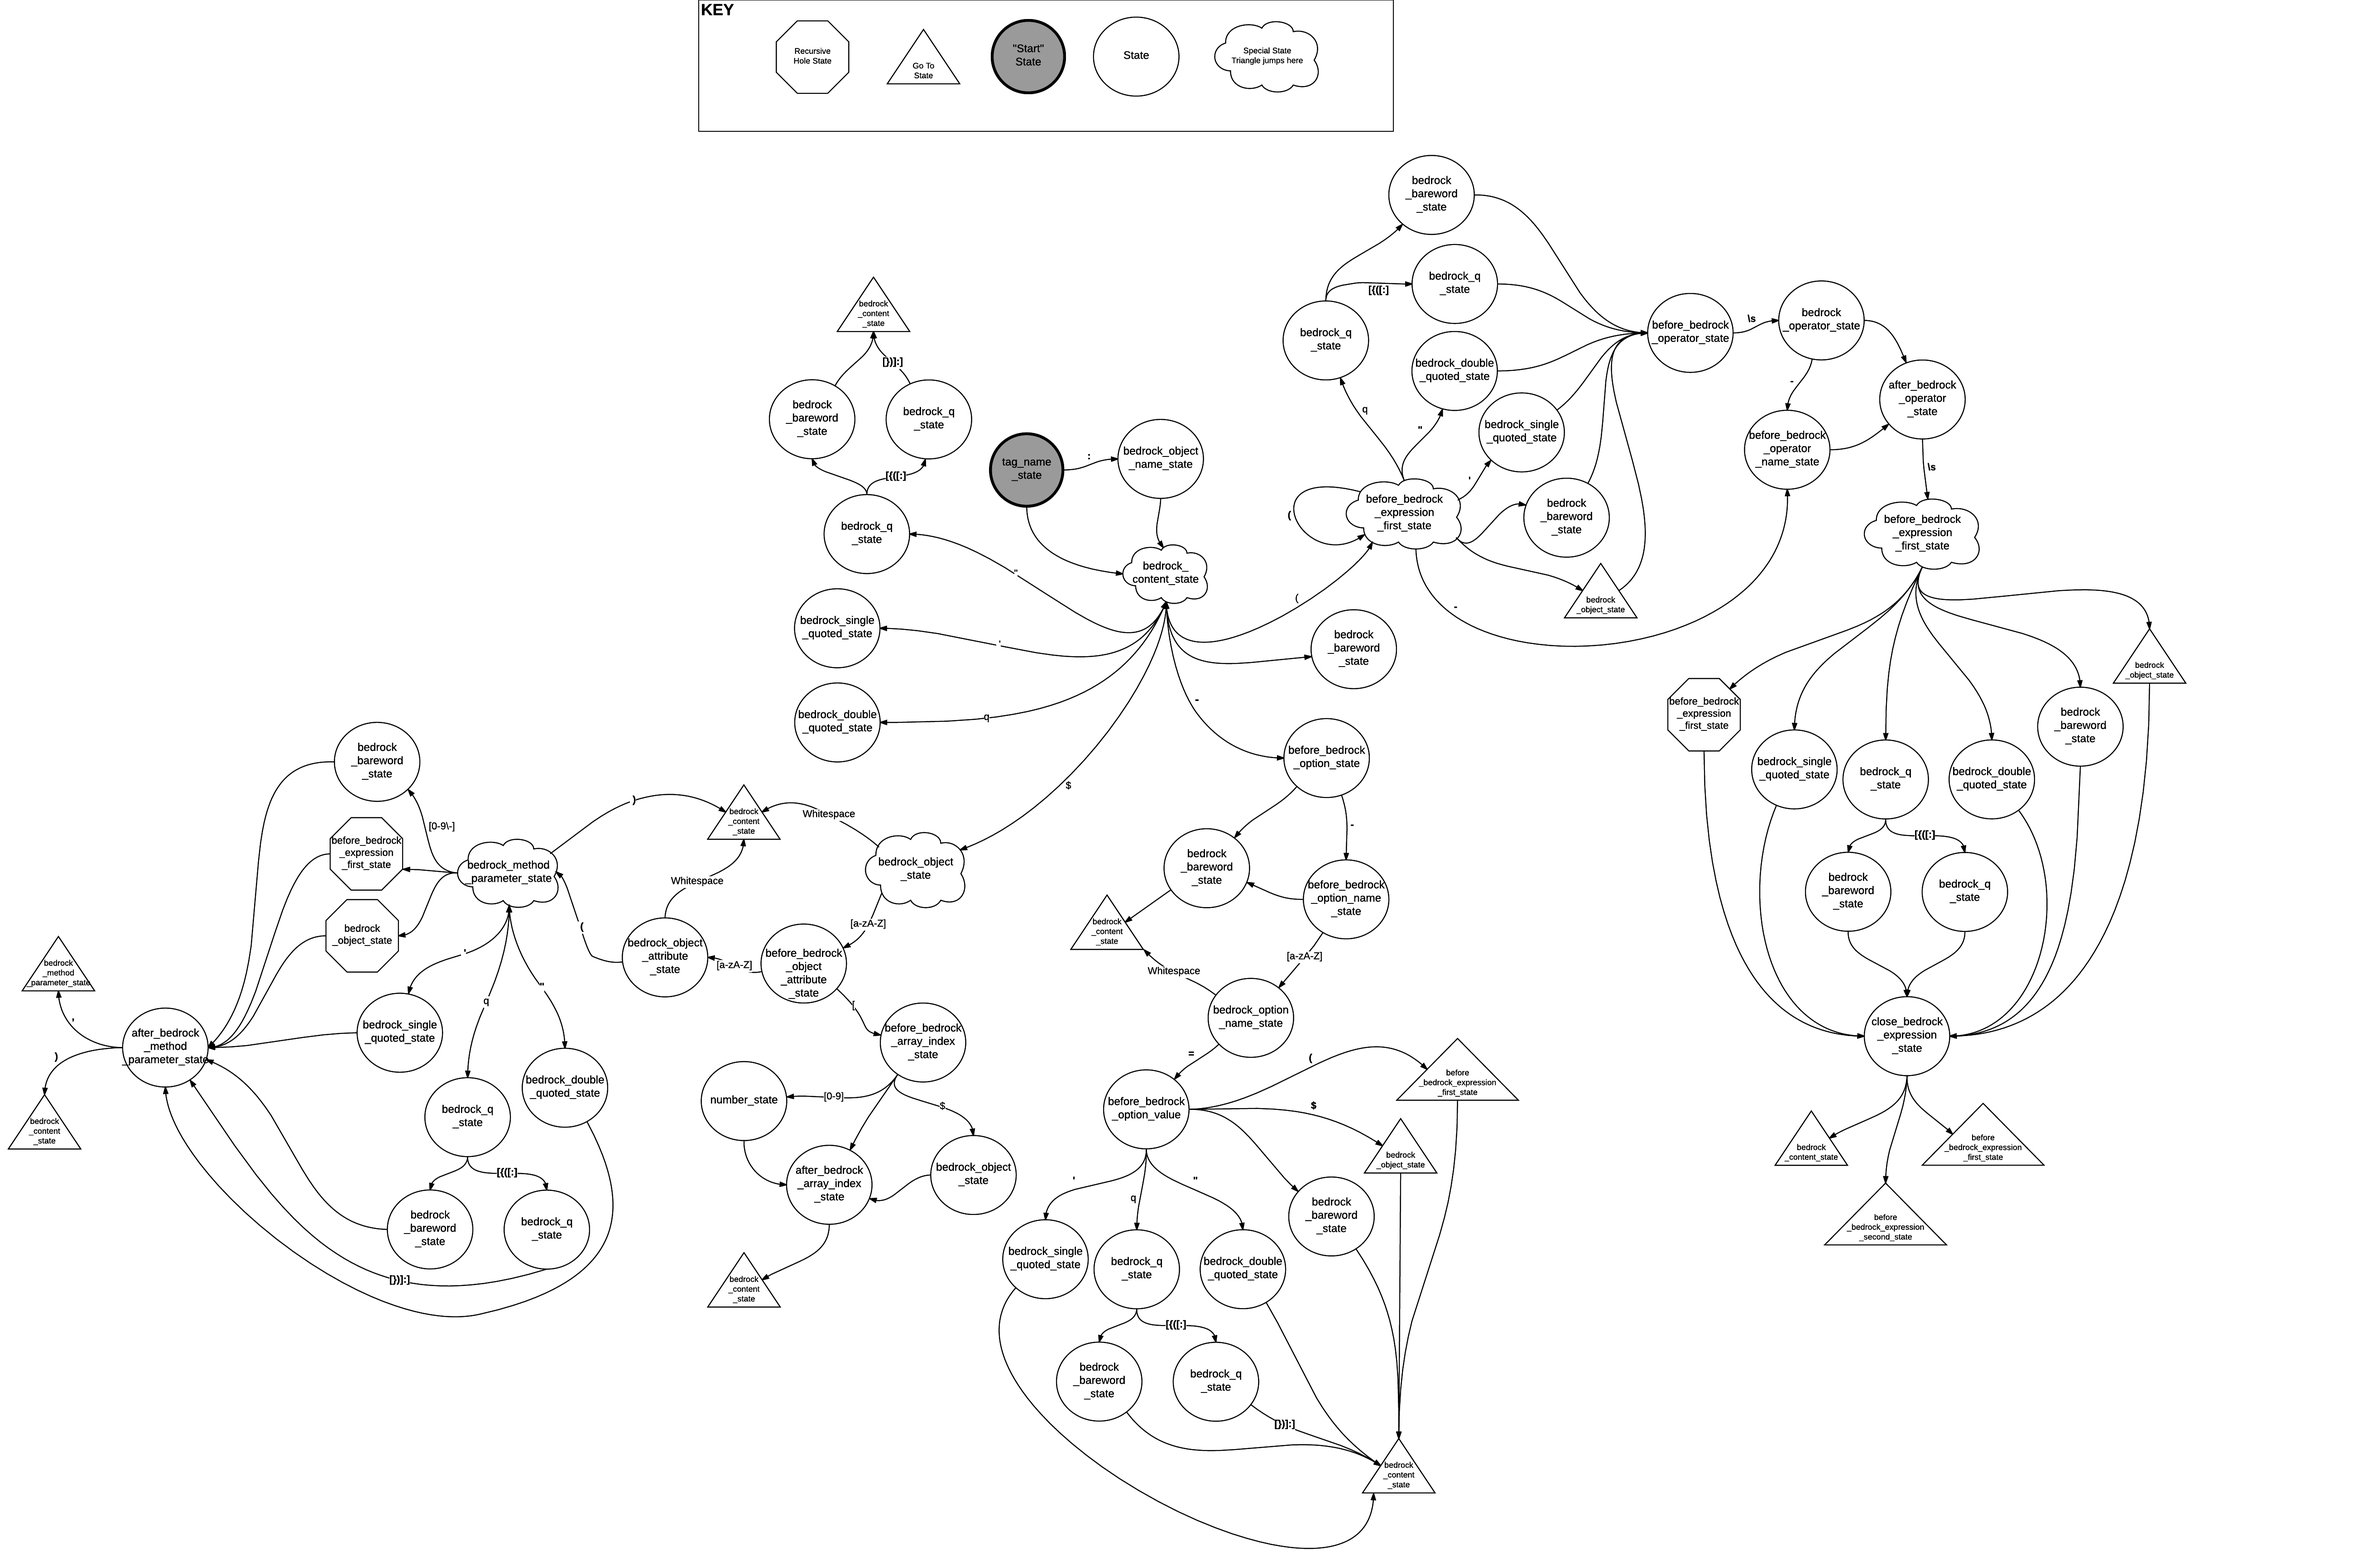
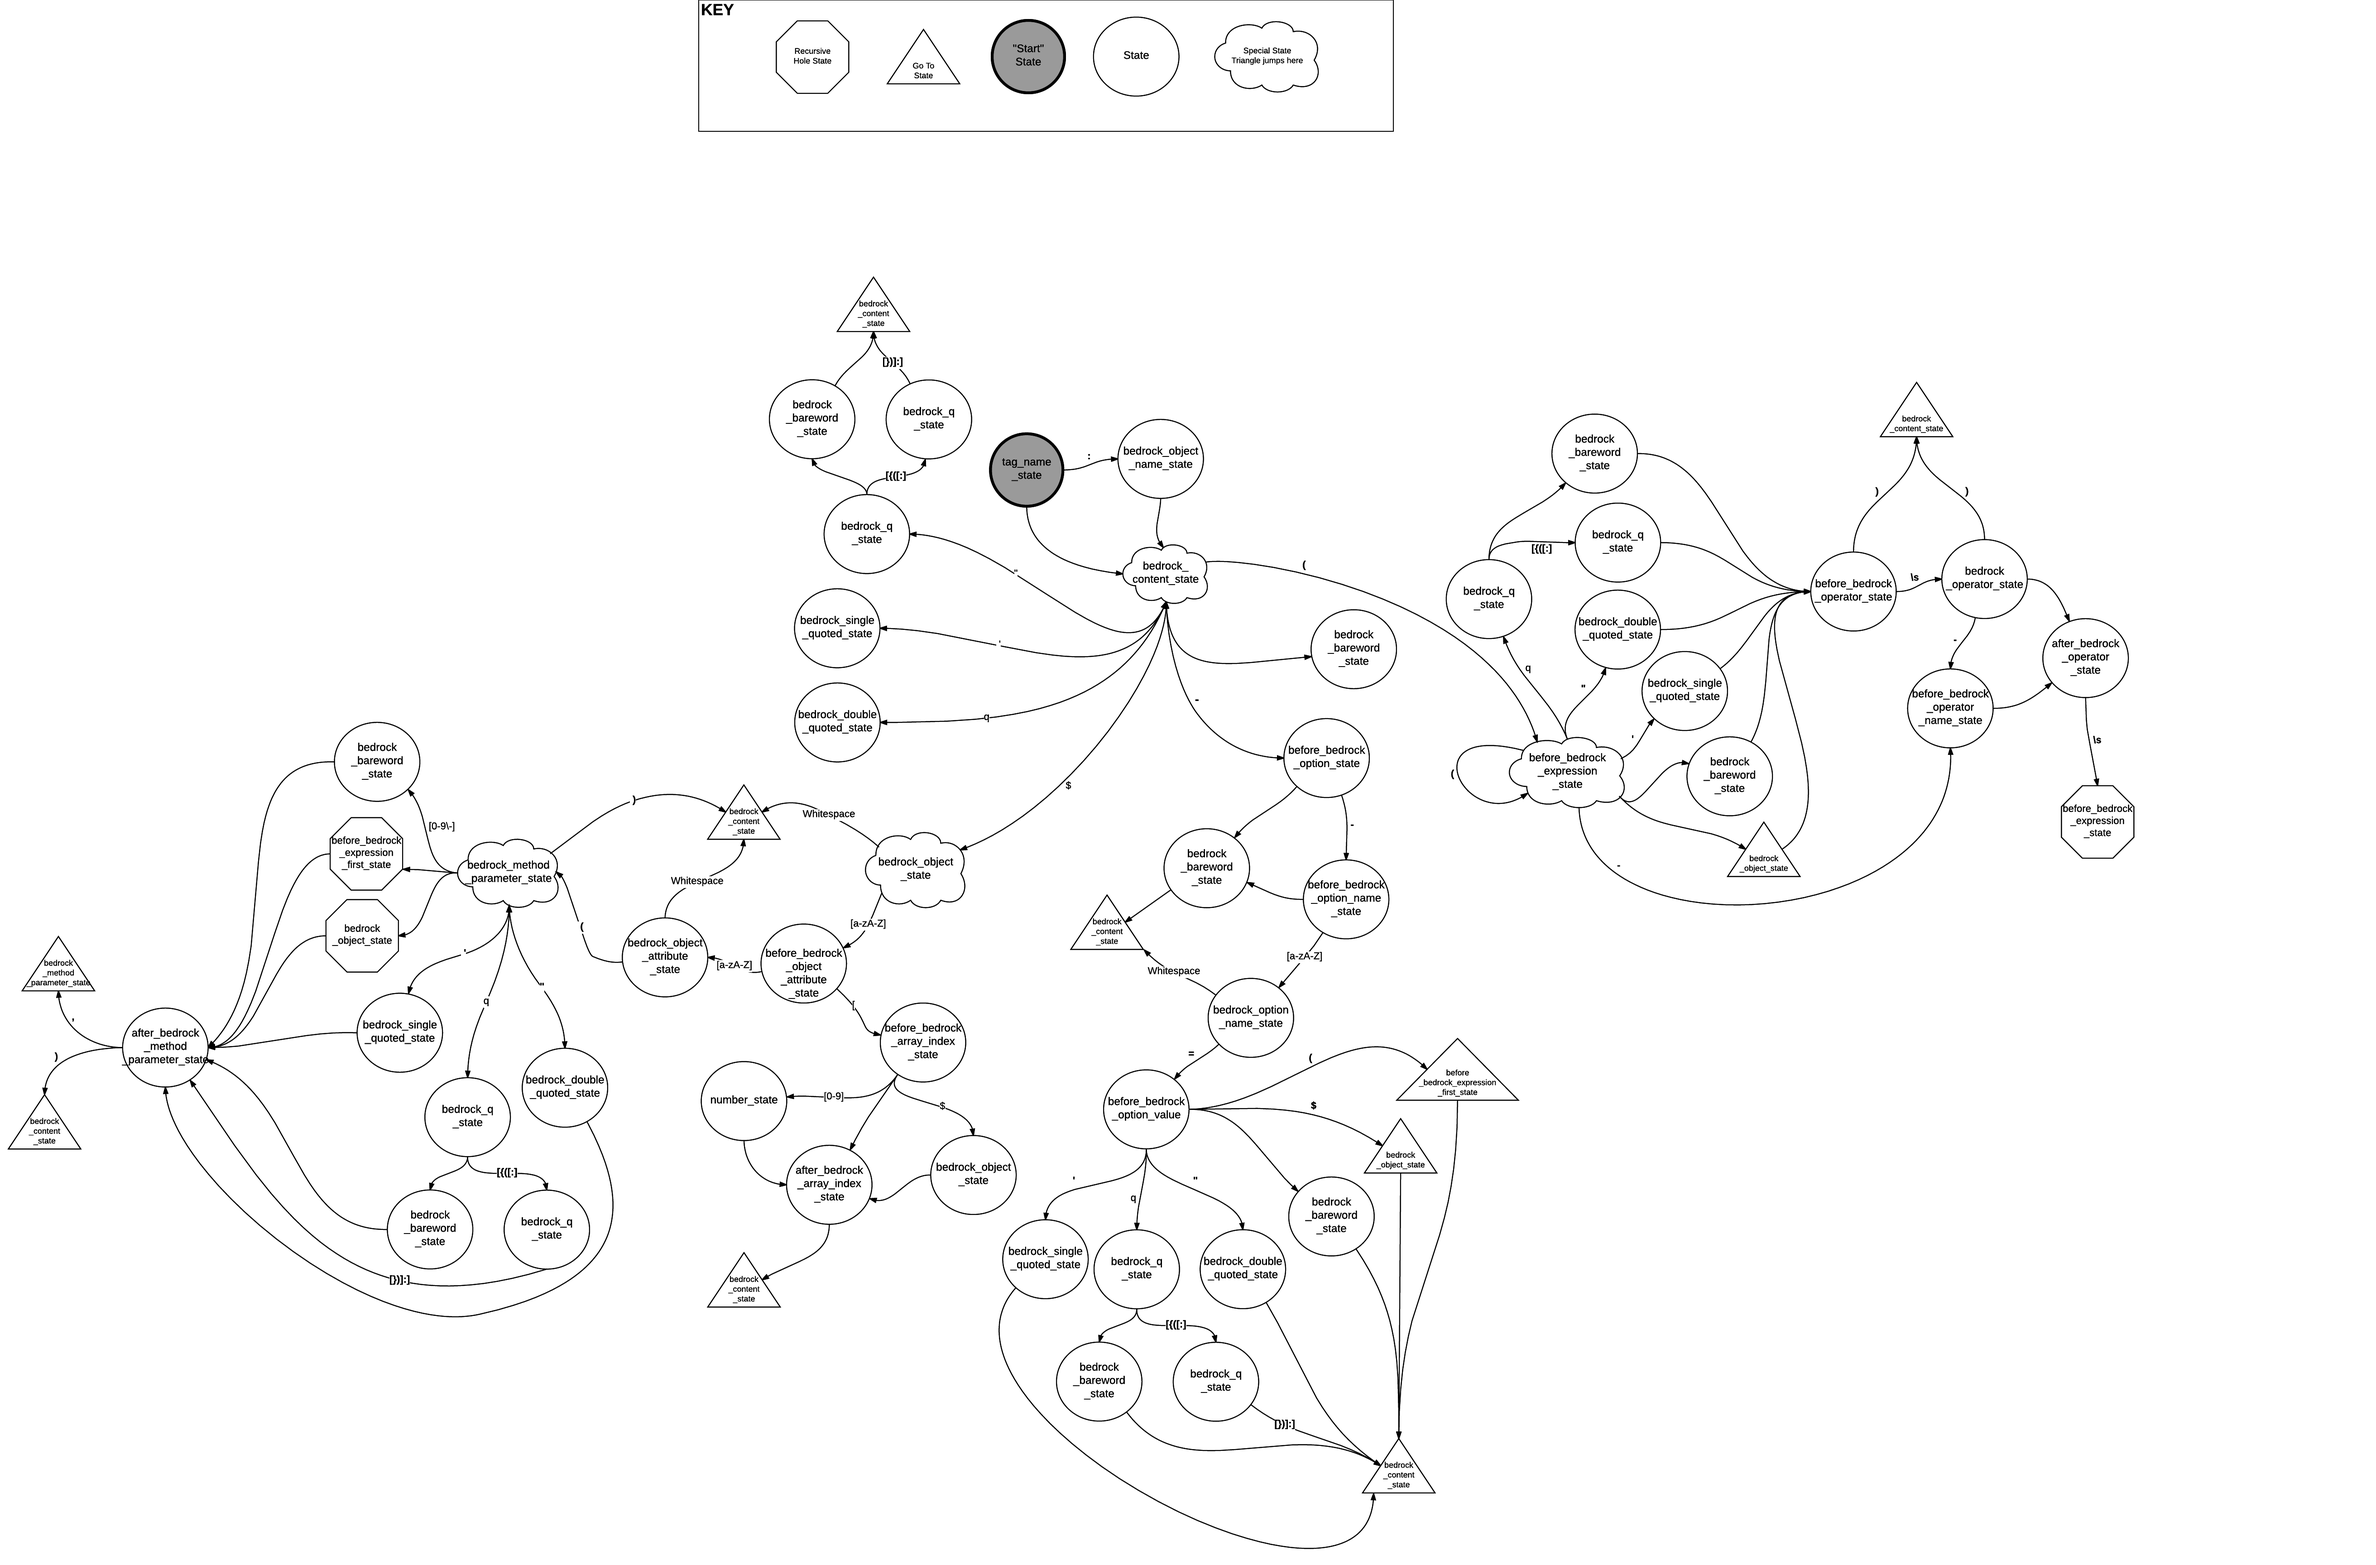
Updating expressions states / diagram
Expressions were rewritten to only use a single "expression" state
instead of two. This commit is cleaning up references and names
as well as updating the state diagram.

diff --git a/src/main/bedrock/javascript/worker-bedrock.js b/src/main/bedrock/javascript/worker-bedrock.js
@@ -2873,7 +2873,7 @@ Tokenizer.prototype.tokenize = function(source) {
             tokenizer._currentToken.data.push({nodeName: data.toLowerCase(), nodeValue: ""});
             tokenizer.setState(before_bedrock_option_state);
         } else if (data === '(') {
-            tokenizer.setState(before_bedrock_expression_first_state);
+            tokenizer.setState(before_bedrock_expression_state);
         } else if (data === '>') {
             tokenizer._emitCurrentToken();
         } else if (data === '\u0000') {
@@ -2997,7 +2997,7 @@ Tokenizer.prototype.tokenize = function(source) {
             tokenizer._currentToken.data.push({nodeName: data.toLowerCase(), nodeValue: ""});
             tokenizer.setState(bedrock_object_state);
         } else if (data === '(') {
-            tokenizer.setState(before_bedrock_expression_first_state);
+            tokenizer.setState(before_bedrock_expression_state);
         } else if (data === '>') {
             tokenizer._parseError("missing-option-value");
             tokenizer._emitCurrentToken();
@@ -3217,7 +3217,7 @@ Tokenizer.prototype.tokenize = function(source) {
             tokenizer._currentToken.data.push({nodeName: data.toLowerCase(), nodeValue: ""});
             tokenizer.setState(bedrock_object_state);
         } else if (data === '(') {
-            tokenizer.setState(before_bedrock_expression_first_state);
+            tokenizer.setState(before_bedrock_expression_state);
         } else if (data === '>') {
             tokenizer._parseError("missing-end-bracket");
             tokenizer._emitCurrentToken();
@@ -3396,7 +3396,7 @@ Tokenizer.prototype.tokenize = function(source) {
         return true;
     }
 
-    function before_bedrock_expression_first_state(buffer) {
+    function before_bedrock_expression_state(buffer) {
         var data = buffer.char();
         if (isWhitespace(data))
             return true;
@@ -3409,7 +3409,7 @@ Tokenizer.prototype.tokenize = function(source) {
             return true;
         }
         /* Update the stack */
-        pushState('bedrock_expression_first');
+        pushState('bedrock_expression');
         if (data === InputStream.EOF) {
             tokenizer._parseError("expected-expression-value-got-eof");
             buffer.unget(data);
@@ -3430,7 +3430,7 @@ Tokenizer.prototype.tokenize = function(source) {
             tokenizer._currentToken.data.push({nodeName: data.toLowerCase(), nodeValue: ""});
             tokenizer.setState(bedrock_object_state);
         } else if (data === '(') {
-            tokenizer.setState(before_bedrock_expression_first_state);
+            tokenizer.setState(before_bedrock_expression_state);
         } else if (data === '>') {
             tokenizer._parseError("expression-not-terminated");
             tokenizer._emitCurrentToken();
@@ -3504,7 +3504,7 @@ Tokenizer.prototype.tokenize = function(source) {
             buffer.unget(data);
             tokenizer.setState(data_state);
         } else if (isWhitespace(data)) {
-            tokenizer.setState(before_bedrock_expression_first_state);
+            tokenizer.setState(before_bedrock_expression_state);
         } else if (data === '-') {
             tokenizer._currentToken.data.push({nodeName: data.toLowerCase(), nodeValue: ""});
             tokenizer.setState(bedrock_operator_name_state);
@@ -3563,7 +3563,7 @@ Tokenizer.prototype.tokenize = function(source) {
 
     function after_bedrock_operator_state(buffer) {
         if (isWhitespace(tokenizer._currentAttribute().nodeValue)) {
-            tokenizer.setState(before_bedrock_expression_first_state);
+            tokenizer.setState(before_bedrock_expression_state);
             return true;
         }
         var data = buffer.char();
@@ -3575,7 +3575,7 @@ Tokenizer.prototype.tokenize = function(source) {
             tokenizer._parseError("expected-white-space-got", {data: data});
             buffer.start--;
         }
-        tokenizer.setState(before_bedrock_expression_first_state);
+        tokenizer.setState(before_bedrock_expression_state);
         return true;
     }
 
@@ -3609,11 +3609,8 @@ Tokenizer.prototype.tokenize = function(source) {
             case 'bedrock_content' :
                 tokenizer.setState(before_bedrock_content_state);
                 return;
-            case 'bedrock_expression_first' :
+            case 'bedrock_expression' :
                 tokenizer.setState(before_bedrock_operator_state);
-                return;
-            case 'bedrock_expression_second' :
-                tokenizer.setState(after_bedrock_expression_second_state);
                 return;
             case 'bedrock_method_parameter' :
                 tokenizer.setState(after_bedrock_method_parameter_state);
